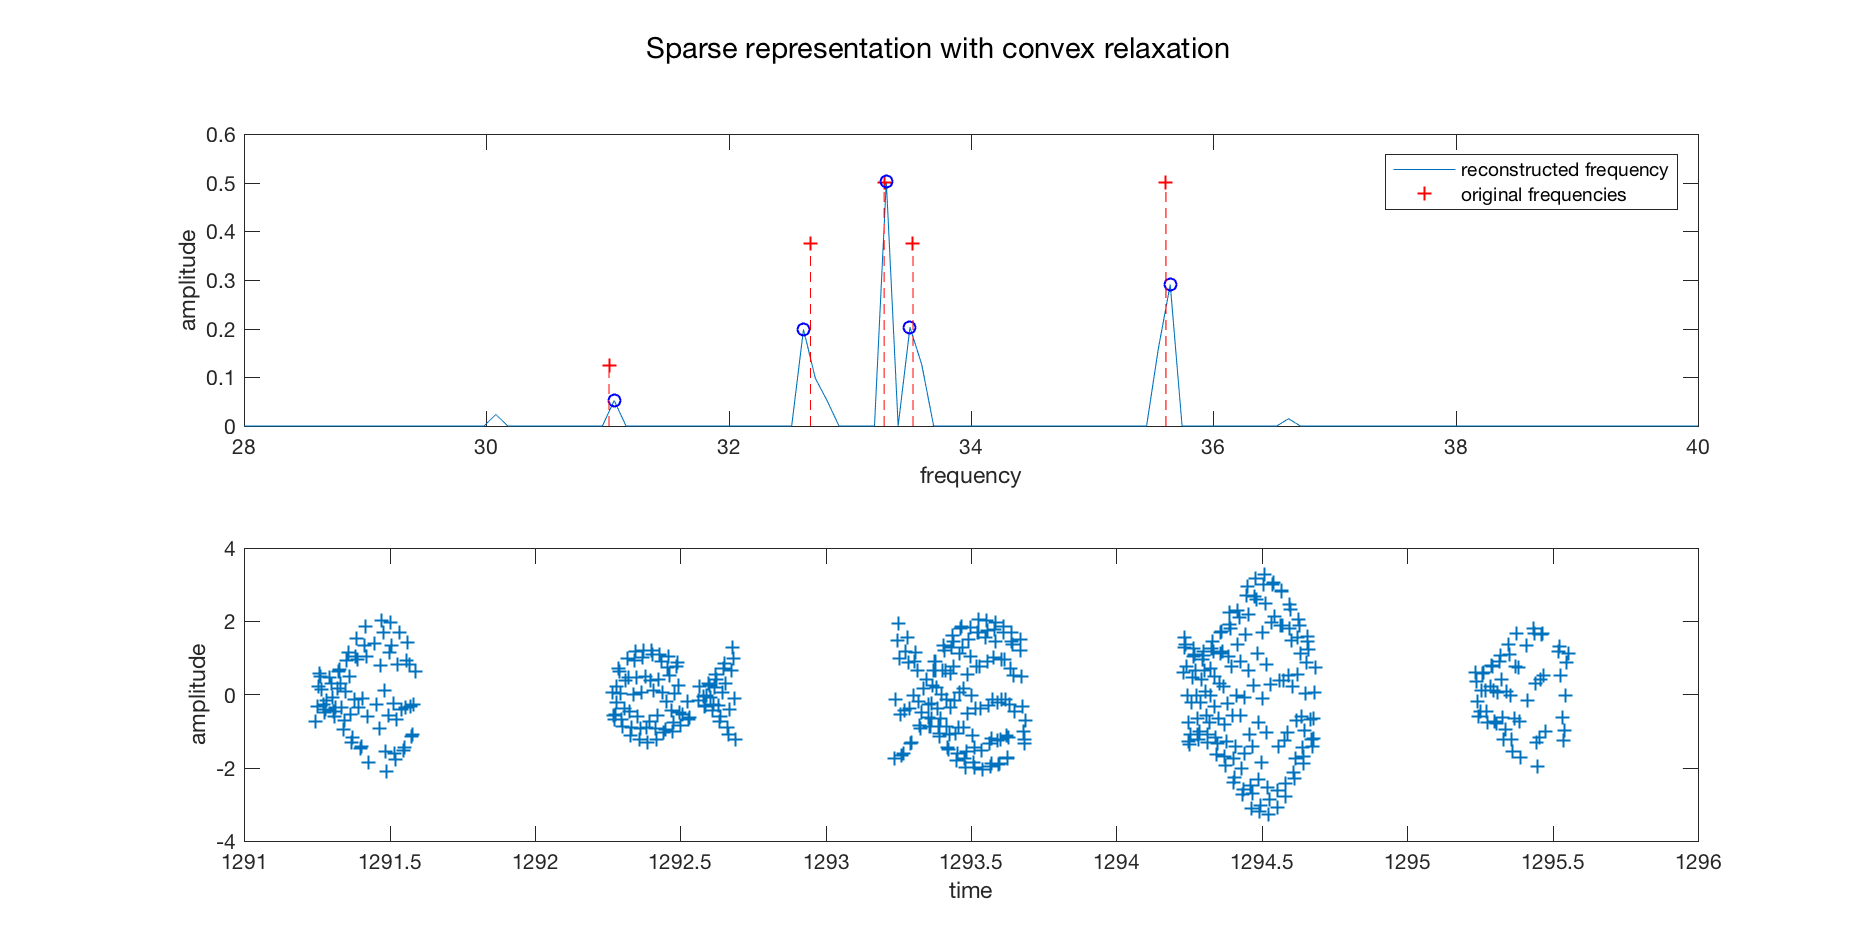
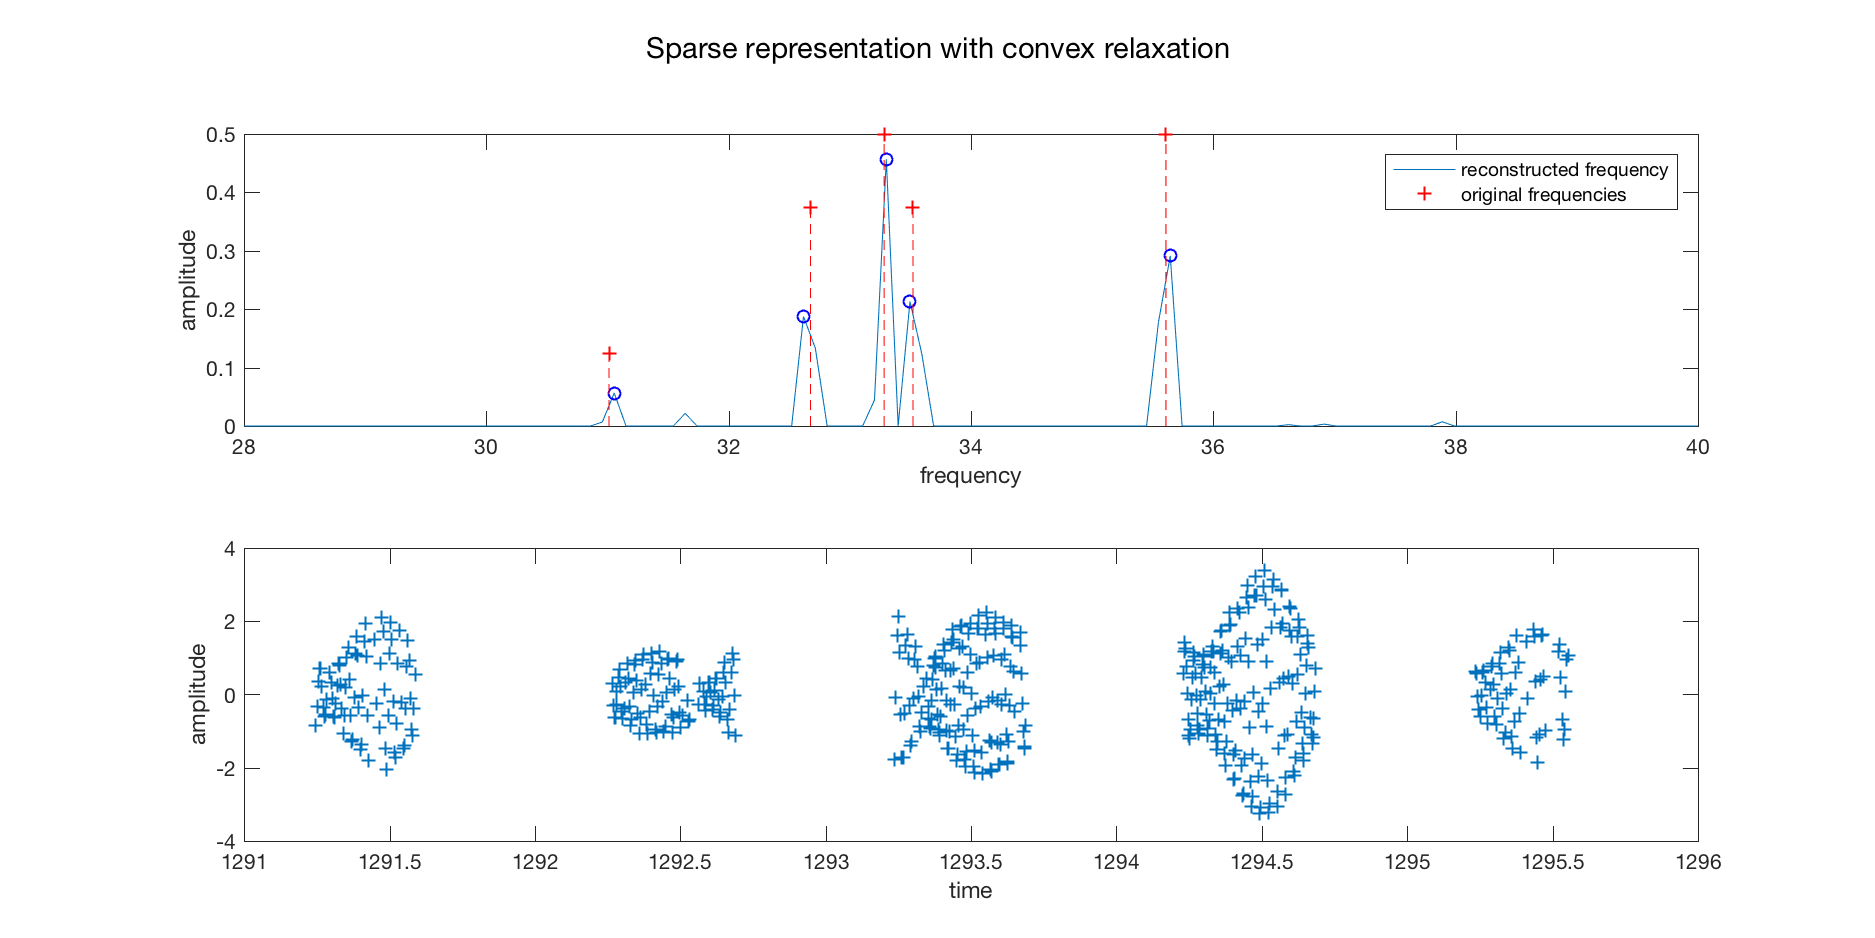
fixed code for saving OLS image. images are new now

diff --git a/code/Lab2.m b/code/Lab2.m
@@ -111,7 +111,7 @@ xlabel('frequency')
 ylabel('amplitude')
 subplot(2,1,2)
 plot(t,W*a,'+')
-suptitle('Matching Pursuit (pre-whitening algorithm')
+suptitle('Matching Pursuit (pre-whitening) algorithm')
 set(gcf, 'PaperUnits', 'points');
 set(gcf, 'PaperPosition', [0 0 900 450]);
 saveas(gcf,'../images/mp.png')
@@ -211,7 +211,7 @@ for ind=1:length(Gamma0)
    a_plot(Gamma0(ind)) = a_vec(ind);
 end
 MethodThrIterations = size(Gamma0);
-[MaxOLS,MaxIdxOLS] = findpeaks(abs(a_plot),'threshold',0.1);
+[MaxOLS,MaxIdxOLS] = findpeaks(abs(a_plot),'MinPeakHeight',0.1);
 
 figure
 subplot(2,1,1)
@@ -235,7 +235,7 @@ ylabel('amplitude')
 suptitle('Orthogonal Least Square');
 set(gcf, 'PaperUnits', 'points');
 set(gcf, 'PaperPosition', [0 0 900 450]);
-saveas(gcf,'../images/omp.png')
+saveas(gcf,'../images/ols.png')
 
 
 %%%%%%%%%%%%%%%%%%%%%%%%%%%%%%%%%%%%%%%%%%%%%%%%%%%%%%%%%%%%%%%%%%%%%%%%%
@@ -247,7 +247,7 @@ n_it_max = 100000;
 
 a1 = min_L2_L1_0(x_n,W,lambda,n_it_max);
 
-[MaxSparse,MaxIdxSparse] = findpeaks(abs(a1),'MinPeakHeight',0.045);
+[MaxSparse,MaxIdxSparse] = findpeaks(abs(a1),'MinPeakHeight',0.03);
 
 figure
 subplot(2,1,1)
